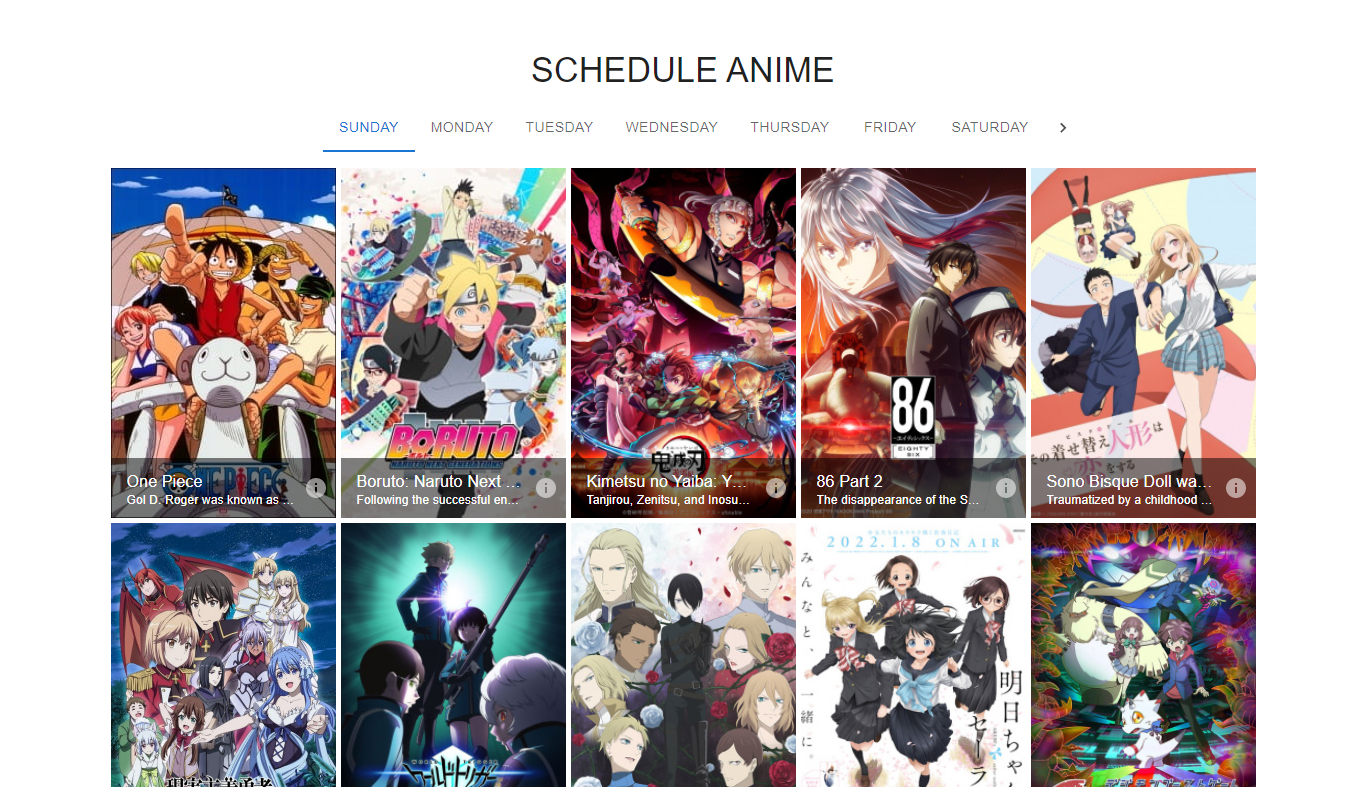
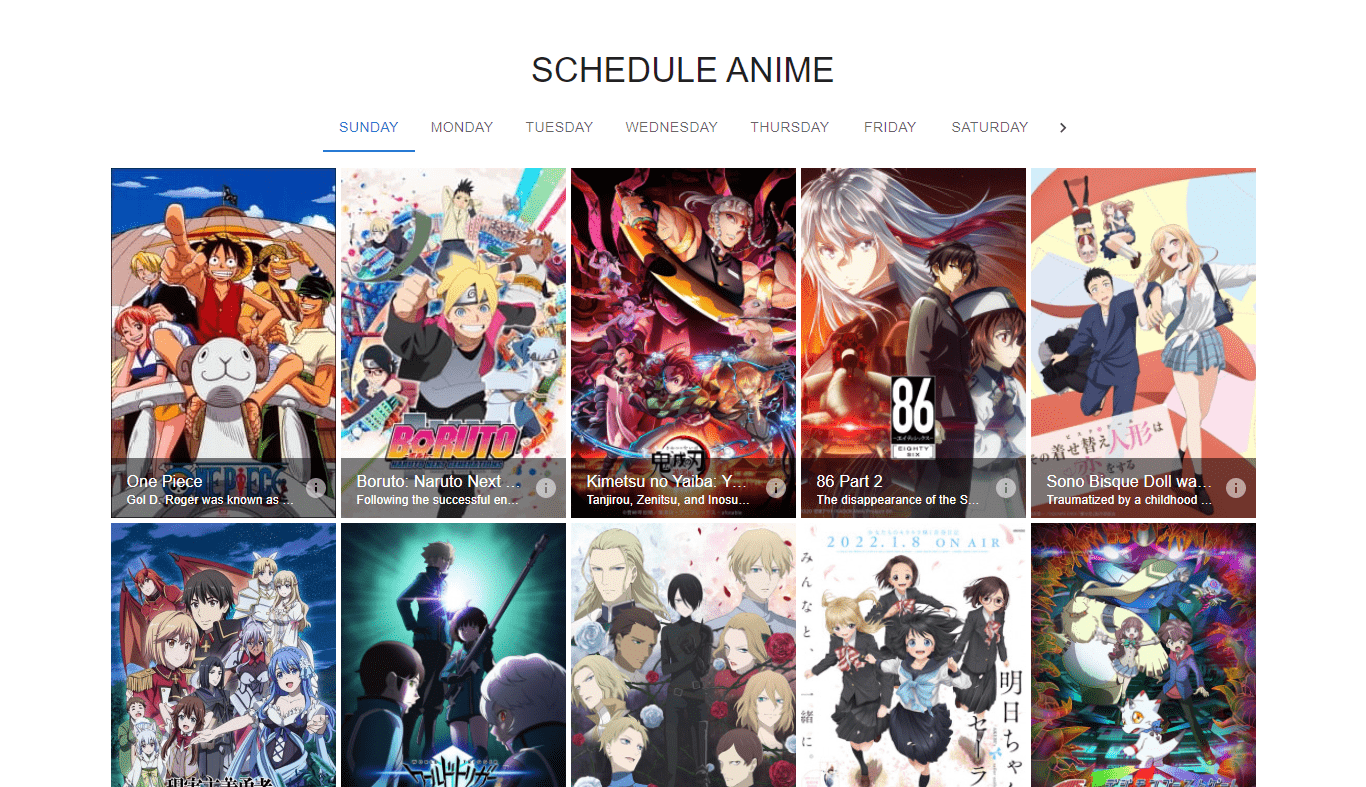
Nav added and image compressed

diff --git a/src/pages/index.tsx b/src/pages/index.tsx
@@ -170,14 +170,81 @@ const Index = () => {
       .then((result) => setDataReadme(result))
       .catch((error) => console.log('error', error))
   }, [])
+  const aboutRef = React.useRef<HTMLDivElement>(null)
+  const portofolioRef = React.useRef<HTMLDivElement>(null)
+  const personalProjectsRef = React.useRef<HTMLDivElement>(null)
+  const repositoriesRef = React.useRef<HTMLDivElement>(null)
+  const cerfiticateRef = React.useRef<HTMLDivElement>(null)
+  const footerRef = React.useRef<HTMLDivElement>(null)
+  const headerRef = React.useRef<HTMLDivElement>(null)
 
   console.log(dataRepo, dataProfile, dataReadme)
 
   return (
     <Container>
+      <div id='header' ref={headerRef}></div>
+      <Box
+        as='nav'
+        w='100vw'
+        h='100vh'
+        display='grid'
+        py='20'
+        flexDirection='column'
+        justifyContent='center'
+        alignItems='center'
+      >
+        <Button
+          onClick={() =>
+            aboutRef.current?.scrollIntoView({ behavior: 'smooth' })
+          }
+        >
+          About
+        </Button>
+        <Button
+          onClick={() =>
+            portofolioRef.current?.scrollIntoView({ behavior: 'smooth' })
+          }
+        >
+          Portofolio
+        </Button>
+        <Button
+          onClick={() =>
+            personalProjectsRef.current?.scrollIntoView({
+              behavior: 'smooth',
+            })
+          }
+        >
+          Personal Projects
+        </Button>
+        <Button
+          onClick={() =>
+            repositoriesRef.current?.scrollIntoView({ behavior: 'smooth' })
+          }
+        >
+          Repositories
+        </Button>
+        <Button
+          onClick={() =>
+            cerfiticateRef.current?.scrollIntoView({ behavior: 'smooth' })
+          }
+        >
+          Certificate
+        </Button>
+        <Button
+          onClick={() =>
+            footerRef.current?.scrollIntoView({
+              behavior: 'smooth',
+              block: 'end',
+            })
+          }
+        >
+          Footer
+        </Button>
+      </Box>
+      <div id='about' ref={aboutRef}></div>
       <Hero apiProfile={dataProfile} apiReadme={dataReadme} />
       <Main>
-        <div id='portofolio'></div>
+        <div id='portofolio' ref={portofolioRef}></div>
         <Heading as='h2' mb='10' textAlign='center'>
           Portofolio
         </Heading>
@@ -190,7 +257,7 @@ const Index = () => {
               key={i.com}
             >
               <Box overflow='hidden'>
-                <ChakraImage src={i.img} title={i.title + ' at ' + i.com}  />
+                <ChakraImage src={i.img} title={i.title + ' at ' + i.com} />
               </Box>
               <Box p='6'>
                 <Heading as='h3' size='md'>
@@ -225,7 +292,7 @@ const Index = () => {
           ))}
         </Stack>
         <Stack>
-          <div id='personal-project'></div>
+          <div id='personal-project' ref={personalProjectsRef}></div>
           <Heading as='h2' my='10' textAlign='center'>
             Personal Project
           </Heading>
@@ -313,7 +380,7 @@ const Index = () => {
           </Stack>
         </Stack>
         <Stack>
-          <div id='repositories'></div>
+          <div id='repositories' ref={repositoriesRef}></div>
           <Heading as='h2' my='10' textAlign='center'>
             Repositories
           </Heading>
@@ -375,8 +442,14 @@ const Index = () => {
           ))}
         </Stack>
         <Stack>
-          <Heading as='h2' my='10' textAlign='center'>
-            Certifications
+          <div id='certificate' ref={cerfiticateRef}></div>
+          <Heading
+            as='h2'
+            my='10'
+            textAlign='center'
+            onScroll={() => console.log('halo')}
+          >
+            Certificate
           </Heading>
           {data.skill.map((i: any) => (
             <Box
@@ -419,13 +492,23 @@ const Index = () => {
       </Main>
       <DarkModeSwitch />
       <Footer>
-        <div id='footer'></div>
         <Center flexDirection='column'>
           <Text>Build with ❤</Text>
           <Text>Powered by Vercel</Text>
           <Text>Nur Kholiq Ansori</Text>
+          <Button
+            onClick={() =>
+              headerRef.current?.scrollIntoView({
+                behavior: 'smooth',
+                block: 'end',
+              })
+            }
+          >
+            Go to Top
+          </Button>
         </Center>
       </Footer>
+      <div id='footer' ref={footerRef}></div>
     </Container>
   )
 }
